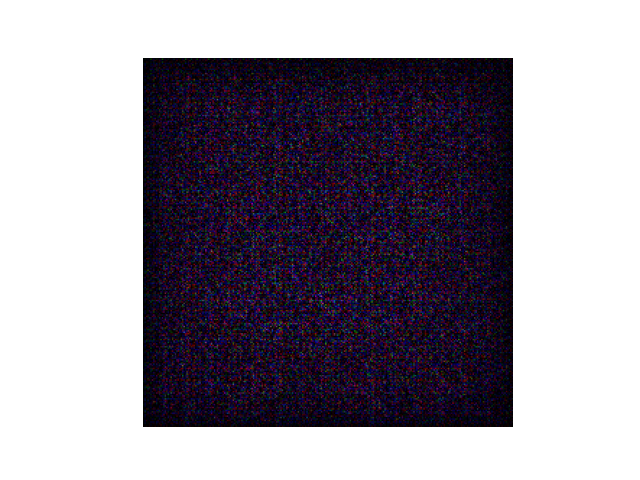
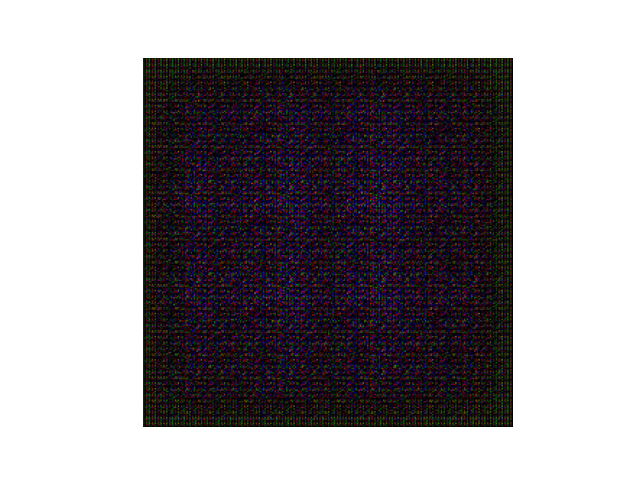
need U-net structure for the Generator

diff --git a/cugan2.py b/cugan2.py
@@ -115,7 +115,7 @@ class Generator(Module):
             BatchNorm2d(num_features = ngf),
             LeakyReLU(inplace = True),
 
-            ConvTranspose2d(in_channels = ngf, out_channels = 6 , kernel_size = 4, stride = 2, padding = 1, bias = False),
+            ConvTranspose2d(in_channels = ngf, out_channels = 3 , kernel_size = 4, stride = 2, padding = 1, bias = False),
             Tanh()
         )
  
@@ -132,7 +132,7 @@ class Discriminator(Module):
         self.dis = Sequential(
  
             # input is (3, 32, 32)
-            Conv2d(in_channels = 6, out_channels = w, kernel_size = 4, stride = 2, padding = 1, bias=False),
+            Conv2d(in_channels = 3, out_channels = w, kernel_size = 4, stride = 2, padding = 1, bias=False),
             # ouput from above layer is b_size, 32, 16, 16
             LeakyReLU(0.2, inplace=True),
  
@@ -188,9 +188,8 @@ def train(imgs,device,epochs,gen_epochs,path):
     shuffle = True
     
     #dataloader = DataLoader(dataset = dset, batch_size = 1, shuffle = shuffle)
-    dataloader = lazyload.make_dataset(path, workers=1, batch_size = 4)
+    dataloader = lazyload.make_dataset(path, workers=1, batch_size = 1)
     
-    print(dataloader)
     netG = Generator().to(device)
     netD = Discriminator().to(device)
     # initializing the weights
@@ -207,7 +206,9 @@ def train(imgs,device,epochs,gen_epochs,path):
 
         for i, b in enumerate(dataloader):
             # Loss on real images
-            print(b.shape)
+            #print(b.shape)
+            label=b[1]
+            attribute = b[0]
             #b = torch.transpose(b,(2,0,1))
             # stack_img = torch.cat((b[0],b[2]),0)
             # ground_truth = b[1]
@@ -215,10 +216,10 @@ def train(imgs,device,epochs,gen_epochs,path):
             opt_D.zero_grad() # set the gradients to 0 at start of each loop because gradients are accumulated on subsequent backward passes
             # compute the D model output
             
-            #yhat = netD(ground_truth.to(device)).view(-1)
-            yhat = netD(b.to(device)).view(-1) # view(-1) reshapes a 4-d tensor of shape (2,1,1,1) to 1-d tensor with 2 values only
+            yhat = netD(label.to(device)).view(-1)
+            #yhat = netD(b.to(device)).view(-1) # view(-1) reshapes a 4-d tensor of shape (2,1,1,1) to 1-d tensor with 2 values only
             # specify target labels or true labels
-            target = torch.ones(len(b), dtype=torch.float, device=device)
+            target = torch.ones(len(b[0]), dtype=torch.float, device=device)
             # calculate loss
             
             loss_real = loss(yhat, target)
@@ -229,17 +230,17 @@ def train(imgs,device,epochs,gen_epochs,path):
     
             # generate batch of fake images using G
             # Step1: creating noise to be fed as input to G
-            #G_input = stack_image
-            noise = torch.randn(len(b), 100, 1, 1, device = device)
+            #G_input = attribute
+            noise = torch.randn(len(b[0]), 100, 1, 1, device = device)
             # Step 2: feed noise to G to create a fake img (this will be reused when updating G)
-            #fake_img = netG(noise) 
-            fake_img = netG(noise)
+            fake_img = netG(noise) 
+            #fake_img = netG(G_input.to(device))
     
             # compute D model output on fake images
             yhat = netD.cuda()(fake_img.detach()).view(-1) 
             
             # specify target labels
-            target = torch.zeros(len(b), dtype=torch.float, device=device)
+            target = torch.zeros(len(b[0]), dtype=torch.float, device=device)
             # calculate loss
             loss_fake = loss(yhat, target)
             # calculate gradients
@@ -260,7 +261,7 @@ def train(imgs,device,epochs,gen_epochs,path):
             # pass fake image through D
             yhat = netD.cuda()(fake_img).view(-1)
             # specify target variables - remember G wants D *to think* these are real images so label is 1
-            target = torch.ones(len(b), dtype=torch.float, device=device)
+            target = torch.ones(len(b[0]), dtype=torch.float, device=device)
             # calculate loss
             loss_gen = loss(yhat, target)
             # calculate gradients

diff --git a/lazyload.py b/lazyload.py
@@ -27,7 +27,7 @@ class MyDataset(torch.utils.data.Dataset):
         #start from 1 because we need to compare the current frame with the previous frame
         #end at len(temp)-1 because we don't have label for the last frame
         for i in range(1,len(self.temp)-1):
-            self.data_files.append([self.temp[i-1],self.temp[i]])
+            self.data_files.append([self.temp[i-1],self.temp[i],self.temp[i+1]])
         
         #make labels as next frame
         self.labels = self.temp[2:]
@@ -38,6 +38,7 @@ class MyDataset(torch.utils.data.Dataset):
         #paths are stored in data_files, so use idx to get the path
         path1=self.data_files[idx][0]
         path2=self.data_files[idx][1]
+        path3=self.data_files[idx][2]
 
         img1 = Image.open(self.path+'/'+path1)
         img1 = img1.convert('RGB')
@@ -55,8 +56,13 @@ class MyDataset(torch.utils.data.Dataset):
 
         instance = torch.cat((torch.tensor(img1),torch.tensor(img2)),0)
         
+        img3 = Image.open(self.path+'/'+path3)
+        img3 = img3.convert('RGB')
+        img3 = img3.resize((256,256))
+        img3 = np.asarray(img3)/255
+        img3 = np.transpose(np.float32(img3), (2,0,1))
 
-
+        label = torch.tensor(img3)
 
         #make a 4d tensor
         #([2,x,y,3]) 2 for 2 frames, x,y for the size of the image, 3 for RGB
